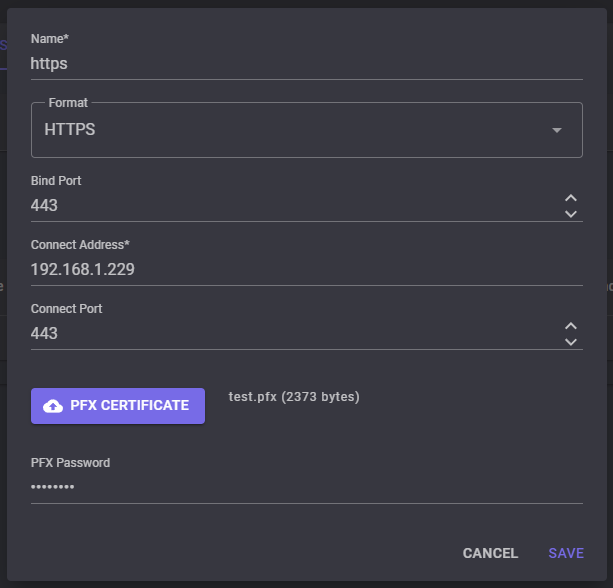
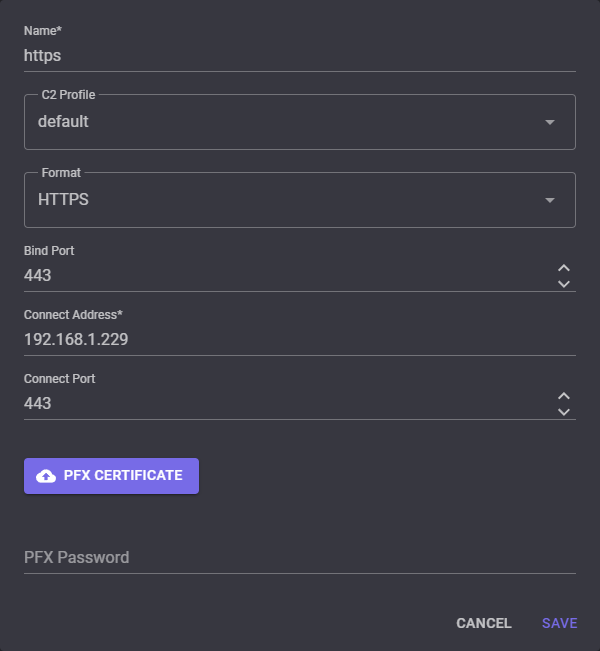
Initial C2 Profile docs

diff --git a/docs/source/c2-profiles.rst b/docs/source/c2-profiles.rst
@@ -1,0 +1,34 @@
+C2 Profiles
+===========
+
+A C2 Profile can be used to customise/override default settings and behavours of the implant.  These currently only apply to the HTTP implant.  They are defined in YAML format and must be present in the team server's `C2Profiles` directory to be loaded.
+
+HTTP
+----
+
+| Option    | Description |
+| ----------| ----------- |
+| Sleep     | The sleep interval of the implant in seconds |
+| Jitter    | The jitter of the sleep interval as a percentage |
+| GetPaths  | The URL paths to use on GET requests |
+| PostPaths | The URL paths to use on POST requests |
+
+
+.. note::
+    The GET and POST paths are selected randomly on each use.
+
+Example Profile
+---------------
+
+```yaml
+Name: default
+Http:
+  Sleep: 60
+  Jitter: 10
+  GetPaths:
+    - /index.php
+    - /news.php
+  PostPaths:
+    - /submit.php
+    - /upload.php
+```

diff --git a/docs/source/handlers.rst b/docs/source/handlers.rst
@@ -10,15 +10,19 @@ Click on the ``+`` button to add a handler of the selected type.
 HTTP
 ----
 
-The HTTP handler is an egress handler, and has 4 options:
+The HTTP handler is an egress handler, and has 5 options:
 
 * Name
 
   * A unique name to identiy the handler.
 
+* C2 Profile
+
+  * The C2 profile to apply to the handler.  See the :doc:`c2-profiles` page for more information.
+
 * Bind Port
 
-  * The port to bind to on the Team Server.  Useful if you want to bind to an odd port and redirect traffic using a redirector (iptables, apache, nginx, etc).
+  * The port to bind to on the Team Server.  Useful if you want to bind to an odd port and redirect traffic using a redirector.
 
 * Connect Address
 
